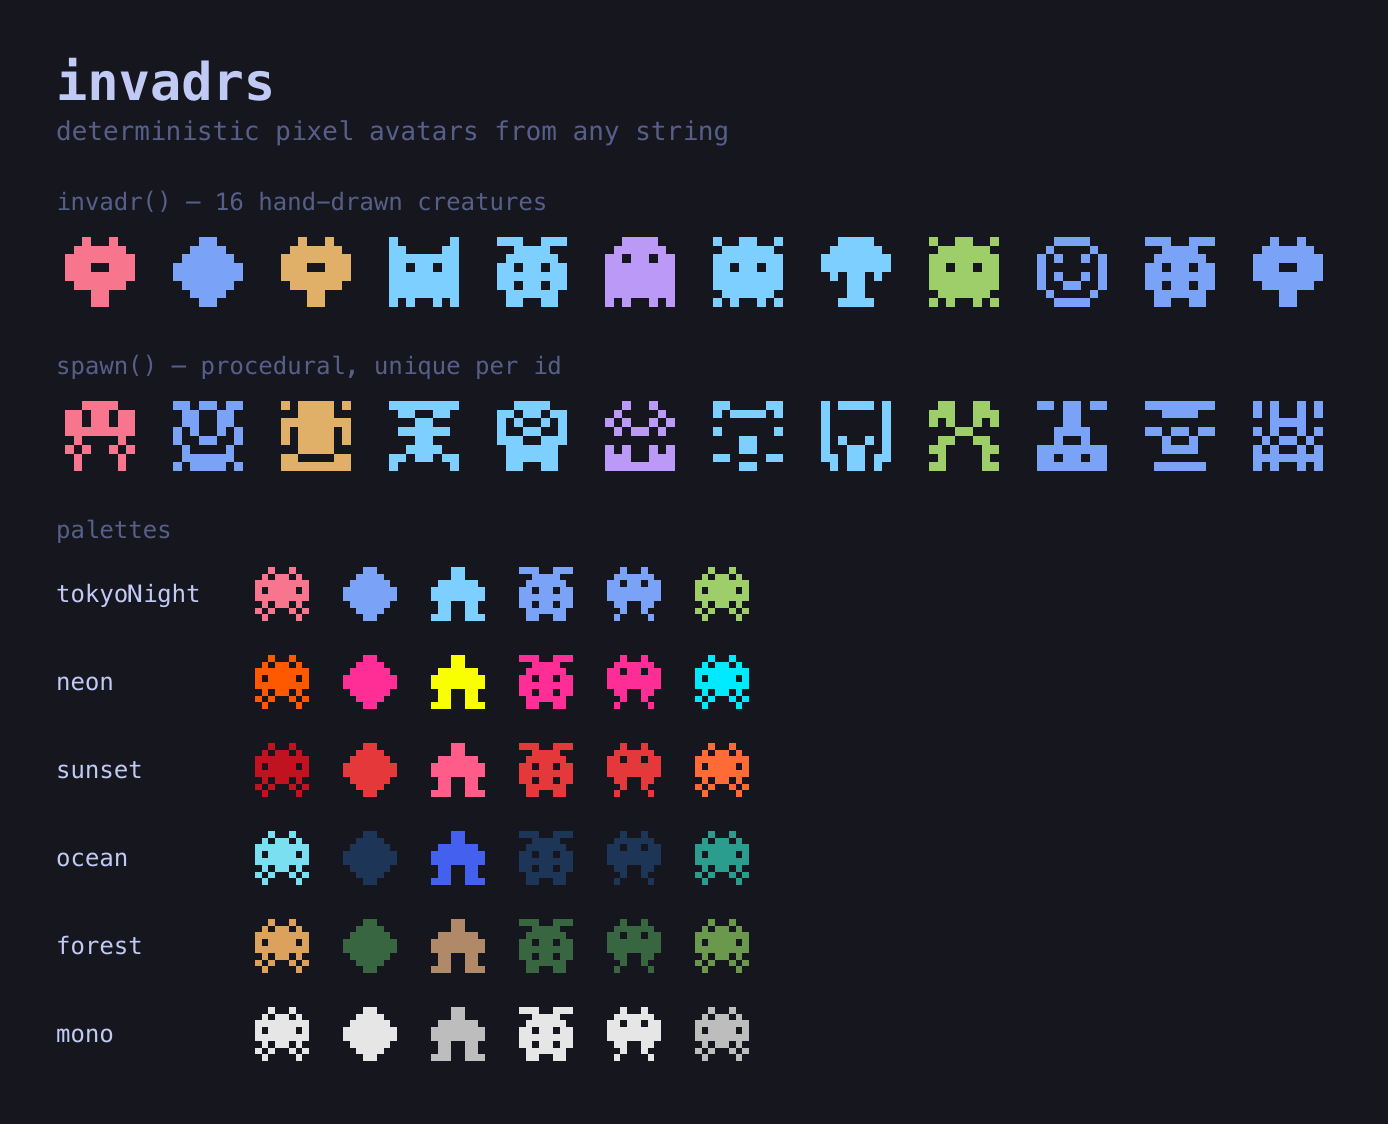
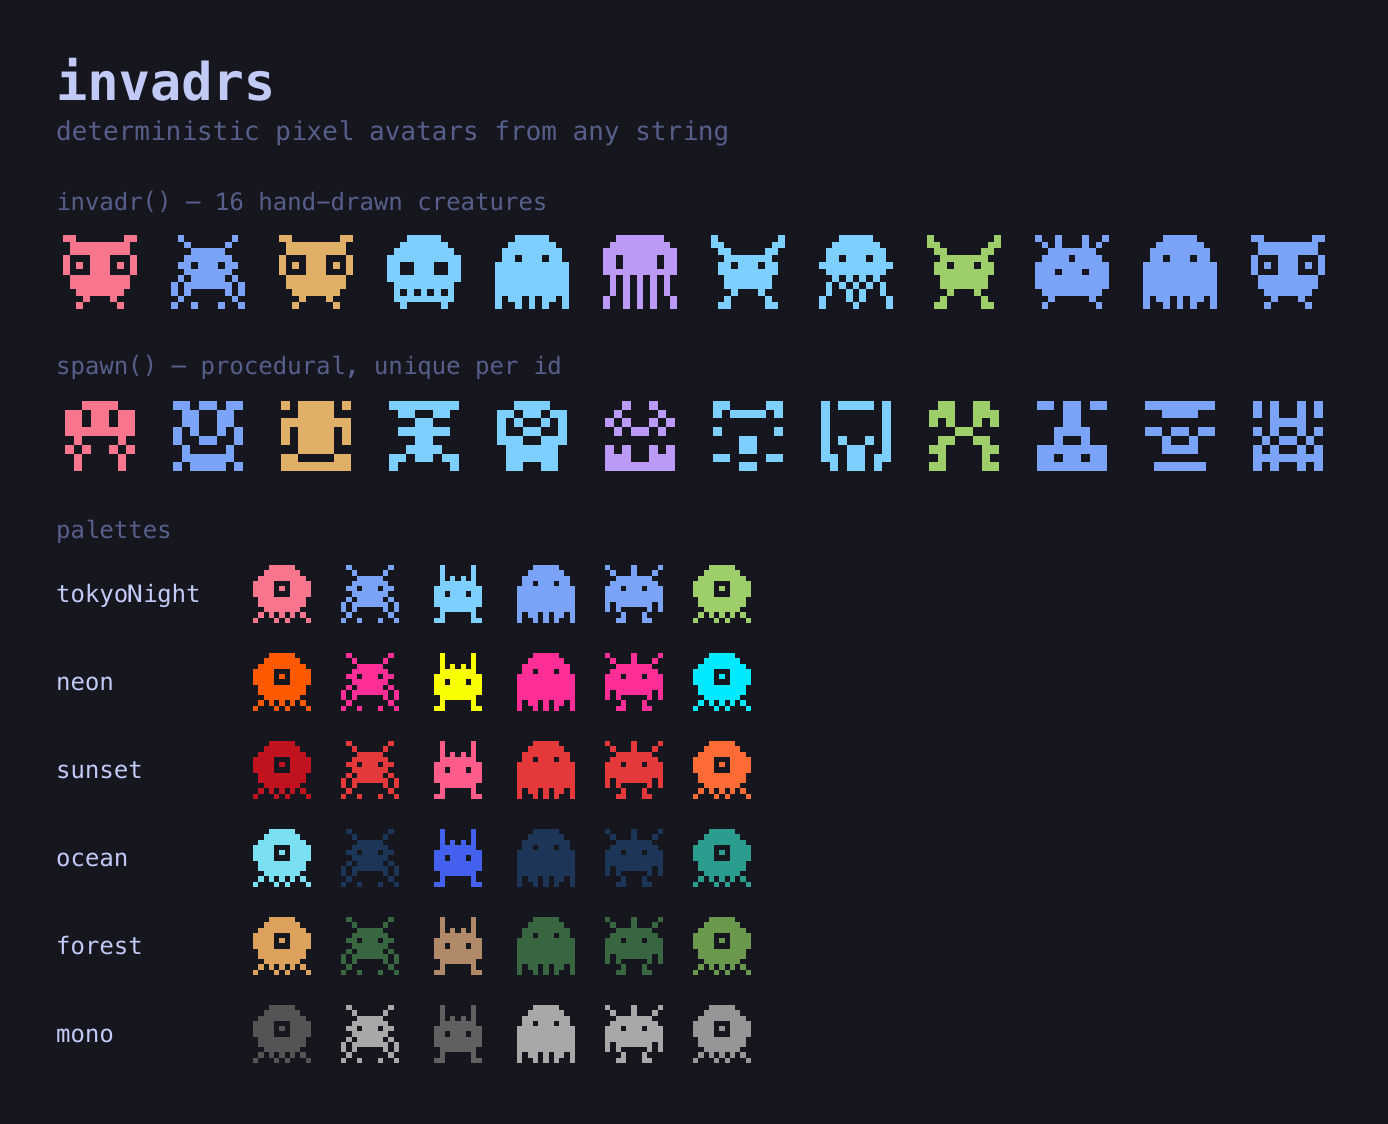
feat!: redesign invadr set as 16 original 11x11 creatures; fix mono palette
- Replaces the 8x8 byte sprites with an 11x11 string-grid format (+ spriteToGrid),
  giving room for real legs/antennae/eyes; 16 distinct original creatures.
- mono palette: 6 distinct mid-greys, legible on both light and dark backgrounds.
BREAKING CHANGE: avatar output changes for every id.

diff --git a/src/invadr.ts b/src/invadr.ts
@@ -2,40 +2,86 @@ import { hashStr } from "./hash.ts";
 import type { Grid, SpriteOptions } from "./types.ts";
 import { resolveCommon, renderSvg, type ResolvedSprite } from "./render.ts";
 
-/** Hand-designed 8x8 creatures (one byte per row, MSB = left pixel).
-    Curated so every id reads as a deliberate sprite; each is left-right
-    symmetric. ORDER IS FROZEN — reordering changes users' avatars. */
-export const INVADR_SPRITES: number[][] = [
-  [0b00011000, 0b00111100, 0b01111110, 0b11011011, 0b11111111, 0b00100100, 0b01011010, 0b10100101], // invader
-  [0b00100100, 0b01111110, 0b11011011, 0b11111111, 0b11111111, 0b01100110, 0b00100100, 0b01000010], // crab
-  [0b00111100, 0b01111110, 0b11011011, 0b11111111, 0b11111111, 0b11111111, 0b11111111, 0b10100101], // ghost
-  [0b00111100, 0b01000010, 0b10100101, 0b10000001, 0b10100101, 0b10011001, 0b01000010, 0b00111100], // smiley
-  [0b00011000, 0b00011000, 0b01111110, 0b11111111, 0b11111111, 0b01100110, 0b01100110, 0b11100111], // mech
-  [0b01000010, 0b00100100, 0b01111110, 0b11011011, 0b11111111, 0b10100101, 0b00100100, 0b01000010], // alien
-  [0b11100111, 0b00111100, 0b01111110, 0b11011011, 0b11111111, 0b11011011, 0b01111110, 0b01100110], // robot
-  [0b10000001, 0b11000011, 0b11111111, 0b11011011, 0b11111111, 0b11111111, 0b11111111, 0b10100101], // cat
-  [0b00111100, 0b01111110, 0b11111111, 0b11011011, 0b11111111, 0b01111110, 0b01011010, 0b00100100], // skull
-  [0b10011001, 0b01111110, 0b11111111, 0b11011011, 0b11111111, 0b11111111, 0b01111110, 0b10100101], // beetle
-  [0b11000011, 0b11111111, 0b11011011, 0b11111111, 0b01111110, 0b00111100, 0b00011000, 0b00100100], // owl
-  [0b00100100, 0b01111110, 0b11111111, 0b11100111, 0b11111111, 0b01111110, 0b00011000, 0b00011000], // flower
-  [0b00011000, 0b00111100, 0b01111110, 0b11111111, 0b11111111, 0b01111110, 0b00111100, 0b00011000], // gem
-  [0b01100110, 0b11111111, 0b11111111, 0b11111111, 0b01111110, 0b01111110, 0b00111100, 0b00011000], // heart
-  [0b00111100, 0b01111110, 0b11111111, 0b11111111, 0b01011010, 0b00011000, 0b00011000, 0b00111100], // mushroom
-  [0b00100100, 0b01011010, 0b11111111, 0b10111101, 0b11111111, 0b01011010, 0b10100101, 0b01000010], // amoeba
+/** Hand-designed 11x11 creatures — `'#'` is a filled pixel, any other char is
+    empty — in the retro pixel-alien style: antennae/ears up top, eyes as
+    negative space, splayed legs below. Each is left-right symmetric. The set
+    and its order define the avatar mapping, so changing them changes existing
+    avatars: a versioned, semver-major change. */
+export const INVADR_SPRITES: string[][] = [
+  [ // squid
+    "...#...#...", "....#.#....", "...#####...", "..#######..", ".##.###.##.",
+    "###########", "###########", ".#.#####.#.", "..#.....#..", ".#..#.#..#.", "#...#.#...#",
+  ],
+  [ // crab
+    "#....#....#", ".#...#...#.", "..#######..", ".#########.", "###.###.###",
+    "###########", "###########", "#.#######.#", "#.#.....#.#", "...#...#...", "..##...##..",
+  ],
+  [ // octopus
+    "..#######..", ".#########.", "###########", "##.#####.##", "##.#####.##",
+    "###########", ".#.#.#.#.#.", ".#.#.#.#.#.", ".#.#.#.#.#.", "#..#.#.#..#", "#..#.#.#..#",
+  ],
+  [ // beetle
+    "#..#...#..#", ".#.#...#.#.", "..#######..", ".####.####.", "###########",
+    "###.###.###", "###########", "###########", ".#########.", "..#.....#..", ".#.......#.",
+  ],
+  [ // bunny
+    "..#.....#..", "..#.....#..", "..#.#.#.#..", "..#######..", ".#########.",
+    ".##.###.##.", ".#########.", ".#########.", "..#######..", "..#.....#..", ".##.....##.",
+  ],
+  [ // cat
+    ".#.......#.", ".##.....##.", ".#########.", "###.###.###", "#####.#####",
+    "###########", "###########", "#.#######.#", "..#######..", "...#...#...", "..#.....#..",
+  ],
+  [ // ghost
+    "...#####...", "..#######..", ".#########.", ".##.###.##.", "###########",
+    "###########", "###########", "###########", "###########", "#.##.#.##.#", "#..#.#.#..#",
+  ],
+  [ // skull
+    "...#####...", "..#######..", ".#########.", "###########", "##..###..##",
+    "##..###..##", "###########", ".#########.", ".#.#.#.#.#.", ".#########.", "..#.....#..",
+  ],
+  [ // robot
+    "....#.#....", "...#####...", "..#######..", ".##.###.##.", ".#########.",
+    ".#.#.#.#.#.", ".#########.", "..#######..", "..#.....#..", "..#.....#..", ".##.....##.",
+  ],
+  [ // horned
+    "#.........#", "##.......##", ".##.....##.", "..#######..", ".##.###.##.",
+    ".#########.", "..#######..", "..#######..", "...#...#...", "..#.....#..", ".##.....##.",
+  ],
+  [ // smiley
+    "..#######..", ".#########.", "###########", "##.#####.##", "###########",
+    "###########", "#.#.###.#.#", "##.#####.##", ".#########.", "..#######..", "..##...##..",
+  ],
+  [ // owl
+    "##.......##", ".#########.", ".#########.", "#...###...#", "#.#.###.#.#",
+    "#...###...#", ".#########.", ".#########.", "..#######..", "...#...#...", "..#.....#..",
+  ],
+  [ // alien
+    ".#.......#.", "..#.....#..", "...#####...", "..#######..", ".##.###.##.",
+    "..#######..", ".#.#####.#.", "#.#######.#", "#.#.....#.#", ".#.......#.", "#..#...#..#",
+  ],
+  [ // mushroom
+    "...#####...", "..#######..", ".#########.", "###########", "###########",
+    ".##.###.##.", "...#####...", "...#...#...", "...#...#...", "...#####...", "..#######..",
+  ],
+  [ // jellyfish
+    "...#####...", "..#######..", ".#########.", ".##.###.##.", "###########",
+    ".#########.", "..#.#.#.#..", ".#.#.#.#.#.", ".#..#.#..#.", "#...#.#...#", "#....#....#",
+  ],
+  [ // slime
+    "...#####...", "..#######..", ".#########.", "####...####", "####.#.####",
+    "####...####", ".#########.", ".#########.", "..#######..", ".#.#.#.#.#.", "#...#.#...#",
+  ],
 ];
 
-/** Expand a byte-per-row bitmap into an 8x8 boolean grid (MSB = left). */
-export function byteRowsToGrid(rows: number[]): Grid {
-  return rows.map((row) => {
-    const cells: boolean[] = [];
-    for (let x = 0; x < 8; x++) cells.push((row & (0x80 >> x)) !== 0);
-    return cells;
-  });
+/** Parse a sprite's row strings into a boolean grid (`'#'` = filled). */
+export function spriteToGrid(rows: string[]): Grid {
+  return rows.map((row) => [...row].map((c) => c === "#"));
 }
 
-/** Pick the creature for a seed. Selection (`seed % 16`) is frozen. */
+/** Pick the creature for a seed. Selection (`seed % 16`) is part of the mapping. */
 export function invadrGrid(seed: number): Grid {
-  return byteRowsToGrid(INVADR_SPRITES[seed % INVADR_SPRITES.length]!);
+  return spriteToGrid(INVADR_SPRITES[seed % INVADR_SPRITES.length]!);
 }
 
 /** Resolve a hand-drawn creature for an id (structured form). */

diff --git a/src/invadr.test.ts b/src/invadr.test.ts
@@ -1,20 +1,24 @@
 import { test, expect } from "bun:test";
-import { INVADR_SPRITES, byteRowsToGrid, invadr, resolveInvadr } from "./invadr.ts";
+import { INVADR_SPRITES, spriteToGrid, invadr, resolveInvadr } from "./invadr.ts";
 
-test("there are 16 sprites, each 8 rows", () => {
+test("there are 16 sprites, each 11x11", () => {
   expect(INVADR_SPRITES.length).toBe(16);
-  for (const s of INVADR_SPRITES) expect(s.length).toBe(8);
+  for (const s of INVADR_SPRITES) {
+    expect(s.length).toBe(11);
+    for (const row of s) expect(row.length).toBe(11);
+  }
 });
 
-test("byteRowsToGrid reads MSB as the left pixel", () => {
-  const grid = byteRowsToGrid([0b10000001, 0, 0, 0, 0, 0, 0, 0]);
-  expect(grid[0]).toEqual([true, false, false, false, false, false, false, true]);
+test("spriteToGrid maps '#' to filled cells", () => {
+  expect(spriteToGrid(["#.#", ".#."])).toEqual([
+    [true, false, true],
+    [false, true, false],
+  ]);
 });
 
 test("every invadr sprite is left-right symmetric", () => {
   for (const s of INVADR_SPRITES) {
-    const grid = byteRowsToGrid(s);
-    for (const row of grid) expect(row).toEqual([...row].reverse());
+    for (const row of s) expect(row).toBe([...row].reverse().join(""));
   }
 });
 
@@ -32,5 +36,5 @@ test("invadr snapshot locks the determinism contract", () => {
 
 test("resolveInvadr uses seed % 16 for the sprite", () => {
   const r = resolveInvadr("matt");
-  expect(r.grid.length).toBe(8);
+  expect(r.grid.length).toBe(11);
 });

diff --git a/src/palettes.ts b/src/palettes.ts
@@ -14,8 +14,8 @@ export const palettes: Record<PaletteName, Palette> = {
   ocean:      { colors: ["#1d3557", "#2a9d8f", "#48cae4", "#56e39f", "#4361ee", "#7bdff2"] },
   // greens and earth — pine, leaf, lime-olive, fern, bark, tan
   forest:     { colors: ["#386641", "#6a994e", "#a7c957", "#588157", "#b08968", "#dda15e"] },
-  // grayscale
-  mono:       { colors: ["#e6e6e6", "#bdbdbd", "#9e9e9e", "#757575", "#bdbdbd", "#e6e6e6"] },
+  // grayscale — mid greys, 6 distinct, legible on both light and dark backgrounds
+  mono:       { colors: ["#a8a8a8", "#969696", "#848484", "#727272", "#606060", "#545454"] },
 };
 
 /** Palette that emits CSS custom properties instead of literal colors so the